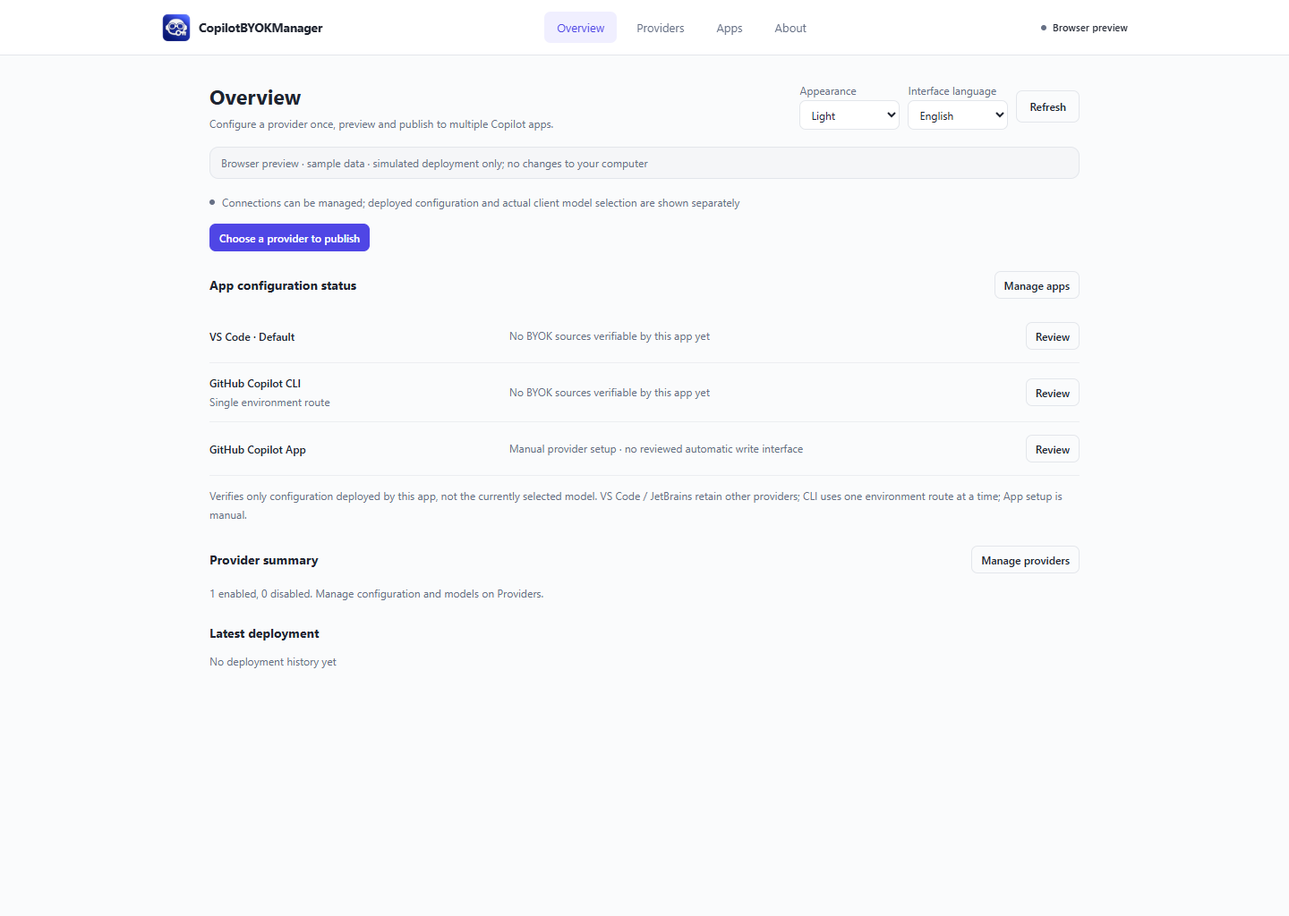
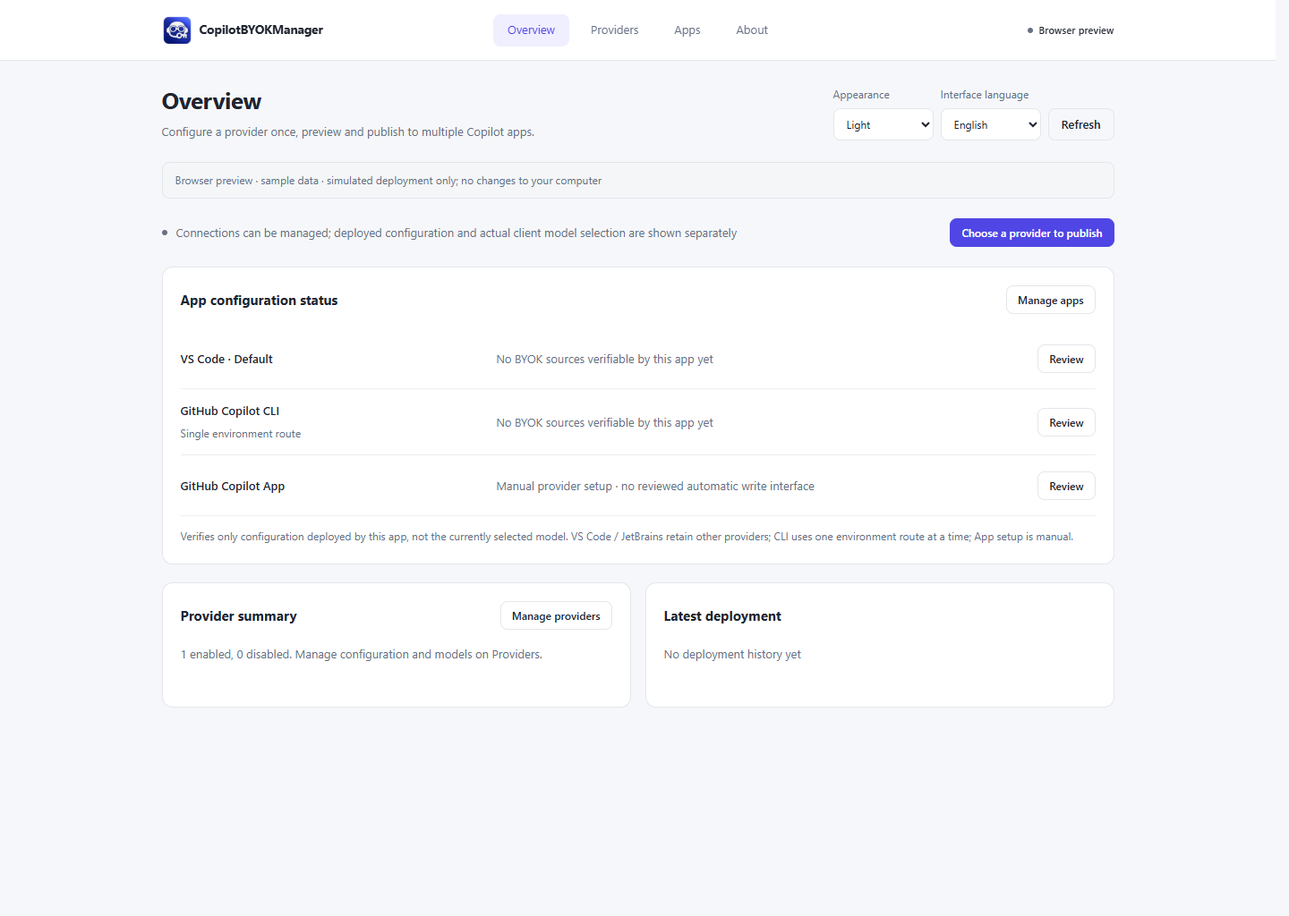
style: align core pages and refresh UI screenshots

diff --git a/apps/desktop/web/manager.css b/apps/desktop/web/manager.css
@@ -1,6 +1,6 @@
 :root {
   color-scheme: light;
-  --bg: #fafbfc;
+  --bg: #f6f7fa;
   --panel: #fff;
   --panel-2: #f5f6f8;
   --panel-3: #eef0f5;
@@ -23,7 +23,12 @@
   --warning-bg: #fff3de;
   --preview-border: #c4bfff;
   --backdrop: #21293d40;
+  --shell-width: 1120px;
+  --page-gutter: 28px;
+  --control-height: 36px;
   font-family: "Segoe UI", "Microsoft YaHei", system-ui, sans-serif;
+  font-size: 13px;
+  line-height: 1.6;
 }
 html[data-theme="dark"] {
   color-scheme: dark;
@@ -51,23 +56,39 @@ html[data-theme="dark"] {
   --backdrop: #00000099;
   --shadow: 0 12px 38px #00000066;
 }
-.core-about { padding: 20px; border: 1px solid var(--border); border-radius: 10px; background: var(--panel); }
-.core-about .appearance-picker { max-width: 220px; margin: 12px 0; }
-.core-window-settings { display: flex; flex-wrap: wrap; gap: 0 20px; }
-.core-window-settings .appearance-picker { flex: 1 1 200px; }
+.core-about { padding: 24px; border: 1px solid var(--border); border-radius: 12px; background: var(--panel); }
+.core-about-grid { display: grid; grid-template-columns: repeat(2, minmax(0, 1fr)); gap: 16px; }
+.core-about-grid > .core-about { min-width: 0; margin: 0; }
+.core-about-intro, .core-about-storage { grid-column: 1 / -1; }
+.core-about-intro { display: flex; align-items: center; gap: 20px; }
+.core-about-intro > img { width: 64px; height: 64px; flex: 0 0 64px; }
+.core-about.core-about-intro h2 { font-size: 21px; margin-bottom: 4px; }
+.core-about-intro .manager-meta { margin-bottom: 4px; }
+.core-about .appearance-picker { min-width: 0; margin: 0; }
+.core-about .appearance-picker select { width: 100%; }
+.core-window-settings { display: grid; grid-template-columns: repeat(2, minmax(0, 1fr)); gap: 16px; margin: 20px 0 16px; }
+.core-window-settings .appearance-picker:only-child { grid-column: 1 / -1; max-width: 240px; }
+.core-about p:last-child { margin-bottom: 0; }
+.core-about > .button + .manager-meta { margin-top: 12px; }
+.core-about-storage[open] > summary { margin-bottom: 16px; }
 .core-history, .app-details { scroll-margin-top: 90px; }
 .core-history > summary, .core-about > summary { font-size: 13px; font-weight: 600; }
 .core-recovery h2 { margin: 0 0 8px; font-size: 14px; }
 .core-recovery p { overflow-wrap: anywhere; }
 .client-grid { display: grid; grid-template-columns: repeat(2, minmax(0, 1fr)); gap: 16px; margin-bottom: 24px; }
-.app-provider-field { display: grid; gap: 6px; margin: 16px 0 10px; font-size: 12px; color: var(--muted); }
-.app-provider-field select { width: 100%; }
-.app-details { margin-top: 14px; font-size: 12px; color: var(--muted); }
-.app-details .path-line { margin-top: 10px; }
+.app-configuration { display: grid; grid-template-columns: minmax(0, 1fr) auto; gap: 12px; align-items: end; margin-top: auto; padding-top: 20px; }
+.app-provider-field { display: grid; gap: 8px; margin: 0; min-width: 0; font-size: 12px; color: var(--muted); }
+.app-provider-field select { width: 100%; height: var(--control-height); font-size: 13px; }
+.app-configuration > .button.small { min-height: var(--control-height); }
+.app-card-footer { display: flex; align-items: flex-start; gap: 12px; margin-top: 20px; padding-top: 12px; border-top: 1px solid var(--border-soft); }
+.app-details { flex: 1; min-width: 0; margin: 0; font-size: 12px; color: var(--muted); }
+.app-details > summary { min-height: 32px; display: list-item; align-content: center; }
+.app-details .path-line { margin-top: 10px; padding: 8px; white-space: normal; font-size: 11px; }
 html[data-theme="dark"] .status-pill.error, html[data-theme="dark"] .status-pill.failed { color: var(--danger); background: var(--panel-2); border-color: var(--border); }
 html[data-theme="dark"] .status-pill.not-installed, html[data-theme="dark"] .status-pill.read-only { color: var(--warning); background: var(--panel-2); border-color: var(--border); }
 html[data-theme="dark"] .client-icon, html[data-theme="dark"] .badge, html[data-theme="dark"] .install-badge { color: var(--muted); background: var(--panel-2); border-color: var(--border); }
 html, body { min-width: 360px; min-height: 100%; background: var(--bg); }
+html { scrollbar-gutter: stable; }
 button, a, input, select, textarea, summary { outline-offset: 3px; }
 /* Theme changes are immediate; avoid unreadable intermediate color blends. */
 html[data-theme] :is(.nav-item, .button, .manager-switch, input, select, textarea) { transition: none; }
@@ -75,12 +96,12 @@ html[data-theme] :is(.nav-item, .button, .manager-switch, input, select, textare
 ::selection { color: var(--text); background: var(--selection-bg); }
 input, textarea { caret-color: var(--accent); }
 .app-shell { display: block; }
-.sidebar { height: 62px; display: grid; grid-template-columns: auto 1fr auto; align-items: center; gap: 26px; padding: 0 max(20px, calc((100vw - 1080px) / 2)); border-right: 0; border-bottom: 1px solid var(--border); background: var(--sidebar-bg); z-index: 10; }
+.sidebar { height: 68px; display: grid; grid-template-columns: 1fr auto 1fr; align-items: center; gap: 24px; padding: 0 max(var(--page-gutter), calc((100% - var(--shell-width)) / 2 + var(--page-gutter))); border-right: 0; border-bottom: 1px solid var(--border); background: var(--sidebar-bg); z-index: 10; }
 .brand { padding: 0; gap: 8px; white-space: nowrap; }
 .brand strong { font-size: 14px; letter-spacing: -.02em; }
 .brand small, .nav-icon { display: none; }
 #primary-nav { display: flex; align-items: stretch; justify-content: center; gap: 8px; }
-.nav-item { width: auto; justify-content: center; padding: 9px 14px; border: 0; border-radius: 7px; font-size: 13px; white-space: nowrap; }
+.nav-item { width: auto; min-height: 36px; justify-content: center; padding: 7px 16px; border: 0; border-radius: 8px; font-size: 13px; white-space: nowrap; }
 .nav-item.active { color: var(--accent); background: var(--accent-soft); border: 0; }
 .nav-item:hover { background: var(--panel-2); }
 .more-nav { position: relative; }
@@ -88,37 +109,44 @@ input, textarea { caret-color: var(--accent); }
 .more-nav > summary::-webkit-details-marker { display: none; }
 .more-menu { position: absolute; right: 0; top: 45px; min-width: 150px; padding: 6px; border: 1px solid var(--border); border-radius: 9px; background: var(--panel); box-shadow: var(--shadow); }
 .more-menu .nav-item { width: 100%; justify-content: flex-start; }
-.sidebar-footer { margin: 0; padding: 0; border: 0; background: none; gap: 7px; white-space: nowrap; }
+.sidebar-footer { justify-self: end; margin: 0; padding: 0; border: 0; background: none; gap: 7px; white-space: nowrap; }
 .sidebar-footer strong { font-size: 11px; font-weight: 500; }
 .sidebar-footer small { display: none; }
 .runtime-dot, .runtime-dot.online { width: 6px; height: 6px; background: var(--subtle); box-shadow: none; }
-.main-panel { max-width: 1020px; margin: auto; }
-.topbar { align-items: center; padding: 30px 24px 18px; gap: 20px; border-bottom: 0; }
+.main-panel { max-width: var(--shell-width); margin: auto; }
+.topbar { align-items: flex-end; padding: 28px var(--page-gutter) 24px; gap: 24px; border-bottom: 0; }
+.topbar > div:first-child { min-width: 0; }
 .topbar .eyebrow { display: none; }
-h1 { font-size: 23px; font-weight: 650; margin-bottom: 7px; letter-spacing: 0; }
-#page-subtitle { font-size: 12px; }
-.topbar-actions { flex-wrap: wrap; justify-content: flex-end; }
-.language-picker, .appearance-picker { display: grid; gap: 3px; flex-shrink: 0; font-size: 12px; color: var(--muted); }
-.language-picker select, .appearance-picker select { width: auto; min-width: 112px; height: 33px; padding: 4px 8px; color: var(--text); background: var(--panel); border: 1px solid var(--border); border-radius: 7px; font: inherit; font-size: 12px; }
-.content { padding: 0 24px 50px; }
-.button { border-radius: 7px; box-shadow: none; font-size: 12px; font-weight: 500; }
+h1 { font-size: 26px; font-weight: 650; line-height: 1.25; margin-bottom: 8px; letter-spacing: -.02em; }
+#page-subtitle { font-size: 13px; line-height: 1.6; }
+.topbar-actions { flex: 0 0 auto; align-items: flex-end; flex-wrap: nowrap; justify-content: flex-end; gap: 8px; }
+.language-picker, .appearance-picker { display: grid; gap: 6px; flex-shrink: 0; font-size: 12px; color: var(--muted); }
+.language-picker select, .appearance-picker select { width: auto; min-width: 112px; height: var(--control-height); padding: 4px 10px; color: var(--text); background: var(--panel); border: 1px solid var(--border); border-radius: 8px; font: inherit; font-size: 12px; }
+.content { padding: 0 var(--page-gutter) 48px; }
+.button { min-height: var(--control-height); border-radius: 8px; box-shadow: none; font-size: 13px; line-height: 1.4; font-weight: 500; padding: 7px 14px; }
 .button.primary { color: var(--on-accent); border-color: var(--accent); background: var(--accent); box-shadow: none; }
 .button.primary:hover:not(:disabled) { background: var(--accent-hover); border-color: var(--accent-hover); }
 .button:hover:not(:disabled) { transform: none; border-color: #c6ccda; }
-.button.small { font-size: 12px; }
-.preview-banner { border-color: var(--border); background: var(--panel-2); color: var(--muted); padding: 9px 12px; font-size: 12px; margin: 0 0 18px; }
-.manager-health { display: flex; align-items: center; gap: 8px; font-size: 12px; color: var(--muted); margin: 3px 0 24px; }
+.button.small { min-height: 32px; padding: 6px 12px; font-size: 12px; }
+.preview-banner { border: 1px solid var(--border); border-radius: 8px; background: var(--panel-2); color: var(--muted); padding: 10px 14px; font-size: 12px; margin: 0 0 20px; }
+.manager-health { display: flex; align-items: center; gap: 10px; font-size: 13px; color: var(--muted); margin: 0 0 20px; min-height: 36px; }
+.manager-health > .button { margin-left: auto; flex-shrink: 0; }
 .manager-dot { flex: 0 0 6px; height: 6px; border-radius: 50%; background: var(--subtle); }
 .manager-dot.attention { background: var(--warning); }
-.manager-section { margin-bottom: 24px; }
-.manager-section h2 { font-size: 14px; font-weight: 650; letter-spacing: 0; margin: 0 0 12px; }
-.manager-section-head { display: flex; align-items: center; justify-content: space-between; gap: 12px; margin-bottom: 12px; }
+.manager-section { margin-bottom: 20px; }
+.manager-section h2 { font-size: 15px; font-weight: 650; letter-spacing: 0; margin: 0 0 16px; }
+.manager-section-head { display: flex; align-items: center; justify-content: space-between; gap: 16px; min-height: 32px; margin-bottom: 16px; }
 .manager-section-head h2 { margin: 0; }
+.manager-surface { padding: 20px; background: var(--panel); border: 1px solid var(--border); border-radius: 12px; }
+.manager-home-summary { display: grid; grid-template-columns: minmax(0, 1fr) minmax(0, 1fr); gap: 16px; }
+.manager-home-summary > .manager-section { min-width: 0; min-height: 140px; margin: 0; }
+.manager-home-summary h2 { min-height: 32px; align-content: center; }
+.manager-home-summary .manager-meta:last-child { margin-bottom: 0; }
 .manager-pending { padding: 16px 18px; border: 1px solid var(--border); border-radius: 9px; background: var(--panel); }
 .manager-action-row { display: flex; gap: 12px; align-items: center; justify-content: space-between; font-size: 12px; padding: 7px 0; }
 .manager-action-row span { line-height: 1.65; }
 .manager-action-row button { flex-shrink: 0; }
-.manager-client-row { display: grid; grid-template-columns: minmax(170px, .8fr) minmax(0, 1.4fr) auto; gap: 12px; padding: 14px 0; align-items: center; border-bottom: 1px solid var(--border-soft); font-size: 12px; }
+.manager-client-row { display: grid; grid-template-columns: minmax(190px, .8fr) minmax(0, 1.4fr) auto; gap: 16px; min-height: 68px; padding: 14px 0; align-items: center; border-bottom: 1px solid var(--border-soft); font-size: 13px; }
 .manager-client-row strong { font-weight: 550; overflow-wrap: anywhere; }
 .manager-client-row small { display: block; font-size: 12px; color: var(--subtle); margin-top: 5px; }
 .manager-sources { display: flex; flex-wrap: wrap; gap: 7px; min-width: 0; }
@@ -127,15 +155,19 @@ h1 { font-size: 23px; font-weight: 650; margin-bottom: 7px; letter-spacing: 0; }
 .manager-source[data-source-state="unavailable"] { color: var(--muted); border-style: dashed; }
 .manager-boundary { font-size: 12px; color: var(--subtle); line-height: 1.75; margin: 12px 0 0; }
 .manager-connection-grid { display: grid; grid-template-columns: repeat(2, minmax(0, 1fr)); gap: 14px; }
-.manager-connection { background: var(--panel); border: 1px solid var(--border); border-radius: 10px; padding: 18px; min-width: 0; }
+.manager-connection { display: flex; flex-direction: column; background: var(--panel); border: 1px solid var(--border); border-radius: 12px; padding: 20px; min-width: 0; }
 .manager-connection.is-disabled { background: var(--panel-2); }
-.manager-connection header { display: flex; align-items: center; justify-content: space-between; gap: 10px; margin-bottom: 14px; }
-.manager-connection h3 { font-size: 14px; margin: 0 0 6px; font-weight: 600; overflow-wrap: anywhere; }
-.manager-meta { color: var(--muted); font-size: 12px; line-height: 1.75; }
+.manager-connection header { display: flex; align-items: flex-start; justify-content: space-between; gap: 16px; min-height: 48px; margin-bottom: 16px; }
+.manager-connection header > div { min-width: 0; }
+.manager-connection h3 { font-size: 15px; line-height: 1.5; margin: 0 0 4px; font-weight: 600; overflow-wrap: anywhere; }
+.manager-meta { color: var(--muted); font-size: 13px; line-height: 1.7; }
+.manager-connection header .manager-meta { font-size: 12px; }
+.manager-connection > .manager-meta { margin: 0; font-size: 12px; }
 .manager-endpoint { font-size: 12px; color: var(--muted); white-space: nowrap; overflow: hidden; text-overflow: ellipsis; margin: 0 0 7px; }
-.manager-model-chips { min-height: 31px; display: flex; flex-wrap: wrap; gap: 6px; margin: 15px 0; }
+.manager-model-chips { min-height: 31px; display: flex; align-items: flex-start; flex-wrap: wrap; gap: 6px; margin: 16px 0 20px; }
 .manager-model-chips small { color: var(--subtle); font-size: 10px; }
-.manager-card-actions { display: flex; gap: 6px; flex-wrap: wrap; }
+.manager-card-actions { display: flex; gap: 8px; flex-wrap: wrap; margin-top: auto; padding-top: 16px; border-top: 1px solid var(--border-soft); }
+.provider-security-note { margin: 0 0 20px; }
 .manager-remove { margin-left: auto; color: var(--subtle); }
 .manager-probe { color: var(--muted); font-size: 11px; line-height: 1.75; margin: 12px 0 0; }
 .manager-probe:empty { display: none; }
@@ -145,7 +177,7 @@ h1 { font-size: 23px; font-weight: 650; margin-bottom: 7px; letter-spacing: 0; }
 .manager-switch[aria-checked="true"] span { transform: translateX(14px); }
 .manager-switch:disabled { opacity: .5; cursor: not-allowed; }
 .manager-result { font-size: 12px; color: var(--muted); display: flex; align-items: center; justify-content: space-between; gap: 12px; }
-.manager-inline-preview { margin: 18px 0 24px; border: 1px solid var(--preview-border); border-radius: 10px; background: var(--panel); padding: 20px; scroll-margin-top: 90px; }
+.manager-inline-preview { margin: 20px 0; border: 1px solid var(--preview-border); border-radius: 12px; background: var(--panel); padding: 24px; scroll-margin-top: 90px; }
 .manager-inline-preview h2 { font-size: 15px; margin: 0; }
 .manager-targets { display: grid; grid-template-columns: repeat(2, minmax(0, 1fr)); gap: 8px; margin: 16px 0; }
 .manager-target { display: flex; align-items: flex-start; gap: 8px; background: var(--panel-2); border-radius: 6px; padding: 11px; font-size: 12px; }
@@ -153,7 +185,8 @@ h1 { font-size: 23px; font-weight: 650; margin-bottom: 7px; letter-spacing: 0; }
 .manager-target small { display: block; margin-top: 5px; color: var(--muted); font-size: 12px; }
 .manager-operations { display: grid; gap: 10px; }
 .manager-operation { border-top: 1px solid var(--border-soft); padding-top: 14px; font-size: 12px; line-height: 1.7; overflow-wrap: anywhere; }
-.manager-operation h3 { font-size: 13px; margin: 0 0 7px; }
+.manager-operation h3 { display: flex; align-items: center; flex-wrap: wrap; gap: 8px; font-size: 13px; margin: 0 0 12px; }
+.manager-operation h3 .manager-meta { padding: 2px 8px; border: 1px solid var(--border); border-radius: 5px; background: var(--panel-2); font-size: 12px; font-weight: 400; }
 .manager-operation p { color: var(--muted); margin-bottom: 9px; }
 .manager-preview-actions { display: flex; gap: 8px; justify-content: flex-end; border-top: 1px solid var(--border-soft); padding-top: 16px; margin-top: 16px; }
 .manager-route-warning { color: var(--warning) !important; background: var(--warning-bg); padding: 7px; border-radius: 5px; }
@@ -162,7 +195,6 @@ h1 { font-size: 23px; font-weight: 650; margin-bottom: 7px; letter-spacing: 0; }
 .manager-start h2 { font-size: 17px; line-height: 1.5; margin: 0 0 8px; }
 .manager-start p { font-size: 13px; line-height: 1.7; color: var(--muted); margin: 0; max-width: 65ch; }
 .manager-start .button { flex-shrink: 0; }
-.manager-task-actions { margin: -8px 0 22px; }
 .manager-extra-sources { max-width: 100%; }
 .manager-extra-sources > summary { padding: 4px 0; }
 .manager-result-action { margin-top: 10px; }
@@ -174,10 +206,20 @@ h1 { font-size: 23px; font-weight: 650; margin-bottom: 7px; letter-spacing: 0; }
 .manager-result-targets li > span { margin-left: 12px; color: var(--muted); }
 .manager-result-targets p { margin: 8px 0 0; color: var(--muted); font-size: 12px; line-height: 1.7; }
 .install-panel, .account-panel, .github-auth-panel, .card, .client-card, .security-note, .setting-row, .usage-panel { background: var(--panel); border-color: var(--border); box-shadow: none; border-radius: 10px; }
+.client-card { display: flex; flex-direction: column; min-width: 0; min-height: 252px; padding: 20px; border-radius: 12px; }
+.client-card:hover { transform: none; border-color: var(--border); }
+.client-header { align-items: center; justify-content: flex-start; gap: 12px; }
+.client-header h3 { flex: 1; min-width: 0; margin: 0; font-size: 15px; line-height: 1.5; overflow-wrap: anywhere; }
+.client-header .status-pill { flex-shrink: 0; margin-left: auto; font-size: 11px; }
+.client-icon { flex: 0 0 36px; width: 36px; height: 36px; margin: 0; border-radius: 9px; font-size: 14px; }
+.client-card .client-description { min-height: 0; margin: 16px 0 0; font-size: 13px; line-height: 1.7; overflow-wrap: anywhere; }
 .status-pill.available, .status-pill.applied, .badge.secure { color: var(--muted); border-color: var(--border); background: var(--panel-2); }
 .modal-backdrop { background: var(--backdrop); z-index: 30; }
-.modal { color: var(--text); background: var(--panel); border-color: var(--border); border-radius: 12px; box-shadow: var(--shadow); max-height: calc(100vh - 48px); }
-.modal-header, .modal-footer { background: var(--panel); }
+.modal { display: flex; flex-direction: column; overflow: hidden; color: var(--text); background: var(--panel); border-color: var(--border); border-radius: 14px; box-shadow: var(--shadow); max-height: calc(100vh - 48px); }
+.modal.wide { width: min(800px, 94vw); }
+.modal-header, .modal-footer { flex: 0 0 auto; padding: 20px 24px; background: var(--panel); }
+.modal-header h2 { font-size: 17px; line-height: 1.5; }
+.modal-body { min-height: 0; overflow: auto; padding: 24px; scrollbar-gutter: stable; }
 .modal-footer { flex-wrap: wrap; }
 .modal-discard { flex: 1 0 100%; padding: 12px; background: var(--panel-2); border-radius: 8px; font-size: 13px; }
 .modal-discard p { margin: 0 0 10px; line-height: 1.7; }
@@ -186,6 +228,16 @@ h1 { font-size: 23px; font-weight: 650; margin-bottom: 7px; letter-spacing: 0; }
 .form-field label, .field-label { font-size: 13px; }
 .form-field small { font-size: 12px; line-height: 1.7; }
 .form-field textarea { font-size: 13px; }
+.form-field { min-width: 0; align-content: start; gap: 8px; }
+.form-grid { gap: 20px 16px; }
+.form-field input, .form-field select { font-size: 13px; }
+.form-field input:not([type="checkbox"]), .form-field select { height: 40px; }
+.form-field input:focus-visible, .form-field select:focus-visible, .form-field textarea:focus-visible { outline: 0; border-color: var(--accent); box-shadow: 0 0 0 3px var(--accent-soft); }
+.model-discovery { background: var(--panel-2); padding: 16px; }
+.model-discovery-actions { gap: 16px; }
+.model-discovery-actions strong { font-size: 13px; }
+.connection-advanced { grid-column: 1 / -1; }
+.connection-advanced > summary { font-size: 13px; }
 .form-grid > #connection-error { margin: 0; }
 input[aria-invalid="true"], textarea[aria-invalid="true"], select[aria-invalid="true"] { border-color: var(--danger); }
 .usage-table { background: var(--panel); font-variant-numeric: tabular-nums; }
@@ -241,7 +293,21 @@ code, .path-line, .usage-code { font-family: "Cascadia Code", "Consolas", monosp
 .account-plan-security, .account-plan-target, .account-confirmation, .account-result-summary { font-size: 12px; }
 .github-auth-permission, .github-auth-scopes strong, .github-auth-meta,
 .account-plan-operation strong, .account-result-row strong { font-size: 12px; }
-.card-grid { display: grid; grid-template-columns: repeat(2, minmax(0, 1fr)); }
+.card-grid { display: grid; grid-template-columns: repeat(2, minmax(0, 1fr)); gap: 16px; }
+summary { cursor: pointer; }
+.content > details.manager-section { padding: 16px 20px; border: 1px solid var(--border); border-radius: 10px; background: var(--panel); }
+.content > details.manager-section > summary { font-size: 13px; font-weight: 600; }
+.content > details.manager-section[open] > summary { margin-bottom: 16px; }
+@media (max-width: 1040px) {
+  .sidebar { grid-template-columns: auto 1fr auto; gap: 16px; }
+  .nav-item { padding-inline: 12px; }
+  .topbar { gap: 16px; }
+  .topbar-actions { gap: 6px; }
+  .topbar-actions > .button { padding-inline: 12px; }
+  .client-header { flex-wrap: wrap; }
+  .client-header .status-pill { margin-left: 48px; }
+  .client-header h3 { flex-basis: calc(100% - 48px); }
+}
 @media (max-width: 900px) {
   .sidebar { grid-template-columns: auto 1fr; gap: 8px; padding: 0 16px; }
   .sidebar-footer { display: none; }
@@ -257,7 +323,15 @@ code, .path-line, .usage-code { font-family: "Cascadia Code", "Consolas", monosp
   .main-panel { width: 100%; }
   .topbar, .content { padding-left: 16px; padding-right: 16px; }
   .topbar-actions { flex-wrap: wrap; justify-content: flex-start; gap: 5px; }
-  .manager-connection-grid, .card-grid, .manager-targets { grid-template-columns: 1fr; }
+  .manager-connection-grid, .card-grid, .manager-targets, .manager-home-summary, .core-about-grid { grid-template-columns: 1fr; }
+  .manager-health { flex-wrap: wrap; }
+  .manager-health > span:nth-child(2) { flex: 1; }
+  .manager-health > .button { margin-left: 16px; }
+  .core-window-settings { grid-template-columns: 1fr; }
+  .core-about-intro { align-items: flex-start; }
+  .core-about-intro > img { width: 44px; height: 44px; flex-basis: 44px; }
+  .app-configuration { grid-template-columns: 1fr; }
+  .app-configuration > .button { justify-self: start; }
   .manager-client-row { grid-template-columns: minmax(0, 1fr) auto; }
   .manager-client-row .manager-sources { grid-row: 2; grid-column: 1 / -1; }
   .manager-action-row { align-items: flex-start; }

diff --git a/apps/desktop/web/manager-ui.js b/apps/desktop/web/manager-ui.js
@@ -102,13 +102,12 @@
     const actions = pending(snapshot, data, native);
     const connections = snapshot.connections.filter(connection => connection.enabled !== false);
     return `${!native ? `<div class="preview-banner">${tr("浏览器试用 · 示例数据 · 发布仅为模拟，不修改电脑")}</div>` : ""}
-      <div class="manager-health"><span class="manager-dot ${actions.length ? "attention" : ""}"></span><span>${actions.length ? tr("有事项需要核对") : tr("连接可管理，发布配置与客户端实际选用分开显示")}</span></div>
+      <div class="manager-health"><span class="manager-dot ${actions.length ? "attention" : ""}"></span><span>${actions.length ? tr("有事项需要核对") : tr("连接可管理，发布配置与客户端实际选用分开显示")}</span>${!frozen(snapshot) && connections.length ? `<button class="button primary small" data-action="jump-connections">${tr("选择连接并发布")}</button>` : ""}</div>
       ${!frozen(snapshot) && !snapshot.connections.length ? `<section class="manager-start"><div><h2>${tr("配置一个供应商，用于多个 Copilot 客户端")}</h2><p>${tr("先添加端点、密钥与模型，再选择你要使用的客户端并预览发布。")}</p></div><button class="button primary" data-action="add-connection">${tr("添加第一个连接")}</button></section>` : ""}
-      ${!frozen(snapshot) && connections.length ? `<div class="manager-task-actions"><button class="button primary small" data-action="jump-connections">${tr("选择连接并发布")}</button></div>` : ""}
       ${actions.length ? `<section class="manager-section manager-pending"><h2>${tr("待处理")}</h2>${actions.map(row => `<div class="manager-action-row"><span>${escape(row.text)}</span><button class="button ghost small" data-action="${row.action}" ${row.route ? `data-route="${row.route}"` : ""} ${row.disabled ? "disabled" : ""}>${row.label}</button></div>`).join("")}</section>` : ""}
-      <section class="manager-section"><div class="manager-section-head"><h2>${tr("客户端模型来源")}</h2><button class="button ghost small" data-action="route" data-route="clients">${tr("客户端管理")}</button></div>${sourceRows(snapshot)}<p class="manager-boundary">${tr("仅核验本软件发布的配置，不读取当前所选模型。VS Code / JetBrains 保留其他供应商；CLI 环境路由一次一个；App 手动配置。")}</p></section>
-      <section class="manager-section" id="home-connections"><div class="manager-section-head"><h2>${tr("供应商概况")}</h2><button class="button ghost small" data-action="route" data-route="connections">${tr("管理供应商")}</button></div><p class="manager-meta">${tr("{0} 个已启用，{1} 个已停用。配置与模型在供应商页管理。", connections.length, snapshot.connections.length - connections.length)}</p></section>
-      <section class="manager-section"><h2 id="publication-result-title">${tr("最近一次发布")}</h2>${lastResult(snapshot, native)}</section>`;
+      <section class="manager-section manager-surface"><div class="manager-section-head"><h2>${tr("客户端模型来源")}</h2><button class="button ghost small" data-action="route" data-route="clients">${tr("客户端管理")}</button></div>${sourceRows(snapshot)}<p class="manager-boundary">${tr("仅核验本软件发布的配置，不读取当前所选模型。VS Code / JetBrains 保留其他供应商；CLI 环境路由一次一个；App 手动配置。")}</p></section>
+      <div class="manager-home-summary"><section class="manager-section manager-surface" id="home-connections"><div class="manager-section-head"><h2>${tr("供应商概况")}</h2><button class="button ghost small" data-action="route" data-route="connections">${tr("管理供应商")}</button></div><p class="manager-meta">${tr("{0} 个已启用，{1} 个已停用。配置与模型在供应商页管理。", connections.length, snapshot.connections.length - connections.length)}</p></section>
+      <section class="manager-section manager-surface"><h2 id="publication-result-title">${tr("最近一次发布")}</h2>${lastResult(snapshot, native)}</section></div>`;
   }
 
   return { escape, policy, connectionCard, sourceRows, pending, lastResult, publicationSteps, renderHome };

diff --git a/apps/desktop/web/app.js b/apps/desktop/web/app.js
@@ -516,7 +516,7 @@
 
   function renderConnections() {
     return `
-      <p class="manager-boundary" style="margin-bottom:18px">${tr("密钥保存在系统凭据库，不回读到界面。测试连接仅查询模型目录，不验证推理能力。")}</p>
+      <p class="manager-boundary provider-security-note">${tr("密钥保存在系统凭据库，不回读到界面。测试连接仅查询模型目录，不验证推理能力。")}</p>
       ${snapshot.connections.length ? `<div class="card-grid">${snapshot.connections.map(connectionCard).join("")}</div>` : emptyConnections()}
       <section class="manager-section manager-publication"><h2 id="publication-result-title">${tr("最近配置操作")}</h2>${window.CopilotBYOKManagerManager.lastResult(snapshot, isDesktop)}</section>
       ${window.CopilotBYOKManagerCore.history(snapshot)}
@@ -602,13 +602,14 @@
       <article class="client-card" data-client-id="${escapeHtml(client.id)}" tabindex="-1">
         <div class="client-header">
           <div class="client-icon">${escapeHtml(clientIcon(client.kind))}</div>
+          <h3>${escapeHtml(client.name)}</h3>
           <span class="status-pill ${escapeHtml(client.status)}">${escapeHtml(statusLabel(client.status))}</span>
         </div>
-        <h3>${escapeHtml(client.name)}</h3>
-        <p>${escapeHtml(client.detail)}</p>
-        ${client.detected ? `<label class="app-provider-field"><span>${tr("使用供应商")}</span><select class="app-provider-select" aria-label="${tr("{0} 使用的供应商", escapeHtml(client.name))}" ${!providers.length || snapshot.stateRecovery || snapshot.deploymentRecovery ? "disabled" : ""}><option value="" ${!providerId ? "selected" : ""}>${providers.length ? tr("请选择供应商") : tr("请先添加供应商")}</option>${providers.map(connection => `<option value="${escapeHtml(connection.id)}" ${connection.id === providerId ? "selected" : ""}>${escapeHtml(connection.name)}</option>`).join("")}</select></label><button class="button primary small" data-action="deploy-client" data-client-id="${escapeHtml(client.id)}" ${!providerId || snapshot.stateRecovery || snapshot.deploymentRecovery || (!client.supportsWrite && client.kind !== "github-copilot-app") ? "disabled" : ""}>${client.supportsWrite ? tr("预览配置") : tr("手动配置")}</button>` : ""}
-        <details class="app-details"><summary>${tr("应用信息")}</summary><div class="path-line" title="${escapeHtml(client.path ?? client.diagnostic ?? "")}">${escapeHtml(client.path ?? client.diagnostic ?? tr("未提供本地路径"))}</div></details>
+        <p class="client-description">${escapeHtml(client.detail)}</p>
+        <div class="app-configuration">${client.detected ? `<label class="app-provider-field"><span>${tr("使用供应商")}</span><select class="app-provider-select" aria-label="${tr("{0} 使用的供应商", escapeHtml(client.name))}" ${!providers.length || snapshot.stateRecovery || snapshot.deploymentRecovery ? "disabled" : ""}><option value="" ${!providerId ? "selected" : ""}>${providers.length ? tr("请选择供应商") : tr("请先添加供应商")}</option>${providers.map(connection => `<option value="${escapeHtml(connection.id)}" ${connection.id === providerId ? "selected" : ""}>${escapeHtml(connection.name)}</option>`).join("")}</select></label><button class="button primary small" data-action="deploy-client" data-client-id="${escapeHtml(client.id)}" ${!providerId || snapshot.stateRecovery || snapshot.deploymentRecovery || (!client.supportsWrite && client.kind !== "github-copilot-app") ? "disabled" : ""}>${client.supportsWrite ? tr("预览配置") : tr("手动配置")}</button>` : ""}</div>
+        <div class="app-card-footer"><details class="app-details"><summary>${tr("应用信息")}</summary><div class="path-line" title="${escapeHtml(client.path ?? client.diagnostic ?? "")}">${escapeHtml(client.path ?? client.diagnostic ?? tr("未提供本地路径"))}</div></details>
         ${client.kind === "jetbrains-copilot" && !client.supportsWrite ? `<button class="button ghost small" data-action="jetbrains-guide" data-id="${escapeHtml(client.id)}">${tr("配置指引")}</button>` : ""}
+        </div>
       </article>`;
   }
 

diff --git a/apps/desktop/web/core-ui.js b/apps/desktop/web/core-ui.js
@@ -42,10 +42,10 @@
     const behavior = windowBehaviorDescription(data, native);
     const closeAction = data.windowBehavior?.closeAction === "exit" ? "exit" : "tray";
     const closeControl = native ? '<label class="appearance-picker"><span>' + tr("关闭窗口时") + '</span><select data-close-action aria-label="' + tr("关闭窗口时") + '" ' + (data.windowBehavior?.preferencesAvailable === true && data.windowBehavior?.trayAvailable === true ? '' : 'disabled') + '><option value="tray" ' + (closeAction === "tray" ? 'selected' : '') + '>' + tr("收起到系统托盘") + '</option><option value="exit" ' + (closeAction === "exit" ? 'selected' : '') + '>' + tr("退出程序") + '</option></select></label>' : '';
-    return '<section class="manager-section core-about"><h2>CopilotBYOKManager</h2><p class="manager-meta">' + tr("一次配置供应商，用于多个 Copilot 应用。") + '</p><p class="manager-meta">' + tr("核心配置版 · 预发布 · 0.1.0") + '</p><p class="manager-boundary">' + tr("独立的 Copilot 配置管理工具，处于预发布阶段，与 GitHub 无隶属关系。") + '</p></section>' +
+    return '<div class="core-about-grid"><section class="manager-section core-about core-about-intro"><img src="assets/app-icon.png" alt="" width="64" height="64" /><div><h2>CopilotBYOKManager</h2><p class="manager-meta">' + tr("一次配置供应商，用于多个 Copilot 应用。") + '</p><p class="manager-meta">' + tr("核心配置版 · 预发布 · 0.1.0") + '</p><p class="manager-boundary">' + tr("独立的 Copilot 配置管理工具，处于预发布阶段，与 GitHub 无隶属关系。") + '</p></div></section>' +
       '<section class="manager-section core-about"><h2>' + tr("界面与窗口") + '</h2><div class="core-window-settings"><label class="appearance-picker"><span>' + tr("外观") + '</span><select data-appearance-select aria-label="' + tr("外观") + '"><option value="system">' + tr("跟随系统") + '</option><option value="light">' + tr("浅色") + '</option><option value="dark">' + tr("深色") + '</option></select></label>' + closeControl + '</div><p class="manager-meta" data-window-explanation>' + behavior + '</p></section>' +
       '<section class="manager-section core-about"><h2>' + tr("帮助与反馈") + '</h2><nav class="manager-help-links" aria-label="' + tr("帮助与反馈") + '">' + [["manual", tr("英文使用手册")], ["manual-zh", tr("中文使用手册")], ["issues", tr("反馈问题")]].map(([key, label]) => '<a data-help-link="' + key + '" href="' + escape(urls[key]) + '" target="_blank" rel="noopener noreferrer">' + label + '</a>').join('') + '</nav><button class="button ghost small" data-action="view-planned-features">' + tr("未推出功能记录") + '</button><p class="manager-meta">' + tr("用量、账单与共享资源暂未开放，已有数据保留。规划记录不承诺上线日期。") + '</p><p class="manager-boundary">' + tr("反馈前请删除密钥、账号认证与对话内容。") + '</p></section>' +
-      '<details class="manager-section core-about"><summary>' + tr("本地存储与安全") + '</summary><p class="manager-meta">' + tr("配置保存在本地，登录凭据留在各官方客户端。") + '</p><p class="manager-meta">' + tr("状态文件") + ': ' + escape(snapshot.statePath) + '</p><p class="manager-meta">' + tr("状态版本") + ': v' + escape(snapshot.version) + '</p><p class="manager-meta">' + tr("状态恢复") + ': ' + (snapshot.stateRecovery ? tr("只读恢复") : tr("正常")) + '</p></details>';
+      '<details class="manager-section core-about core-about-storage"><summary>' + tr("本地存储与安全") + '</summary><p class="manager-meta">' + tr("配置保存在本地，登录凭据留在各官方客户端。") + '</p><p class="manager-meta">' + tr("状态文件") + ': ' + escape(snapshot.statePath) + '</p><p class="manager-meta">' + tr("状态版本") + ': v' + escape(snapshot.version) + '</p><p class="manager-meta">' + tr("状态恢复") + ': ' + (snapshot.stateRecovery ? tr("只读恢复") : tr("正常")) + '</p></details></div>';
   }
   function planned() {
     const rows = [

diff --git a/docs/implementation-status.md b/docs/implementation-status.md
@@ -1,6 +1,6 @@
 # CopilotBYOKManager implementation status
 
-Updated 2026-10-15 for the maintainer-approved v0.1 four-page release scope, icon refresh and unsigned Mac preview. Initial release engineering started at `83a82db3555eb0defa278bd6e042b7c55a76088f`; current package source and evidence are recorded below. This is an implementation/evidence summary, not complete-MVP or release acceptance. The [specification §21](mvp-implementation-spec.md#21-final-acceptance) and [feature availability](feature-availability.md) separate core release gates from the retained extended milestone. The product has not had a public release.
+Updated 2026-10-16 for the four-page layout polish and Windows console-free release fix, on top of the maintainer-approved v0.1 scope, icon refresh and unsigned Mac preview. Initial release engineering started at `83a82db3555eb0defa278bd6e042b7c55a76088f`; current package source and evidence are recorded below. This is an implementation/evidence summary, not complete-MVP or release acceptance. The [specification §21](mvp-implementation-spec.md#21-final-acceptance) and [feature availability](feature-availability.md) separate core release gates from the retained extended milestone. The product has not had a public release.
 
 ## Current implementation
 
@@ -32,10 +32,30 @@ Technical detail: [architecture](architecture.md), [hardening](hardening-handoff
 - Publication: pending apply blocks navigation/refresh/dismissal, and failures retain guidance with a consumed preview. Closing an idle preview restores its opener; completion focuses persistent per-target results. VS Code/JetBrains model selection, CLI new-session guidance, and the exact Connection's App manual guide remain distinct. Disk publication never claims login, selection or successful provider execution.
 - Appearance/help: Light/Dark/System, early saved preference and live system following only in System mode. Changes are CSS-only, preserving drafts and previews without IPC. About includes manual/feedback links, an offline planned-feature record and local storage/recovery details.
 - Windows window lifetime: default close-to-tray with a saved Tray/Exit choice on About; left-click restore, localized right-click Open main window / Exit menu, and repeat-launch wakeup. Only a readable Tray preference, registered tray and successful hide retain background execution; other main close paths use normal Tauri exit. Ordinary minimize uses the taskbar. Preference damage keeps the original file and exits; unknown observations remain unknown. Unrestricted menu/tray permissions are excluded from the WebView.
+- Layout: shared header/content gutters and equal-height toolbar controls; bottom-aligned provider actions; app identity, status, provider selector/action and information footer use consistent rows. Overview has a grouped app-status panel and paired summary/result panels; About groups identity, preferences and help. Dialog headers/footers stay visible while the form body scrolls. The four routes, explicit selection and preview/confirm semantics are unchanged.
 
 ## Validation evidence
 
 Evidence must stay attached to the source and validation layer that produced it. Tests use temporary data and fake external services. Private runtime reports remain outside Git; the reviewed, synthetic README screenshots are checked in with [provenance](images/README.md) and are not runtime acceptance evidence.
+
+### Layout polish and console-free Windows launch — 2026-10-16
+
+Validation baseline: `0255a7d09e08fb8909907724645f2653a6959813` plus the then-local changes described here. This evidence was collected before the maintainer's subsequent commit/push request; it does not claim tag/publication or fresh hosted-workflow acceptance.
+
+The Windows preview's unexpected console was confirmed in its PE header (Console subsystem 3). The release entry point now selects Windows GUI subsystem 2; debug builds retain their console. Packaging and the Windows CI build validate the compiled x64/PE32+ GUI header, rejecting console, malformed and truncated payloads. Three new regression tests cover the header and build-path contract. Native tray behavior, stores, credentials, migrations and deployment logic are unchanged.
+
+Before the later layout edits, a local dirty-source Windows dry-run produced NSIS and standalone ZIP artifacts. The extracted payload passed the GUI-header check, rejected test-only startup flags and opened a responding `CopilotBYOKManager` main window without the old console. That package is a **console-fix preview, not a package of the later layout changes**. No installer was executed; tray close/restore/Quit, clean-user setup, Mac runtime and real client requests were not accepted by this launch.
+
+The layout changes use the real current frontend with fresh isolated browser contexts and fictional key-free providers. `scripts/check-layout.cjs` preserves before/after captures at 1180 × 860 and checks 48 combinations of four pages, two languages, two explicit themes and 960/1180/1440px widths (960 × 640 is the smallest window). Geometry checks cover header/content alignment, toolbar heights, card action rows and overflow; additional scenarios cover long names, modal-body scrolling, draft retention, fake-data save, publication preview and synthetic native-only window preferences. These browser checks are not native IPC or real-client acceptance. No real provider, account, IDE or key was read or modified.
+
+| Check | Result and limit |
+| --- | --- |
+| Source checks | `npm run check` passed: 10 version sources, 22 release tests, 69 web tests, 998 bilingual messages / 973 explicit keys, Rust fmt, 275 library + 6 integration tests, strict Clippy. The existing local link-privilege limitation is unchanged |
+| Existing browser regression | All 18 core scenario groups passed, including contrast, system theme, draft/focus/save guards, preview lifecycle, recovery and hidden-feature boundaries; native calls remain fixtures |
+| Layout regression | 48 page/locale/theme/viewport checks plus editor/long-name/preview/synthetic-window checks passed; before/after screenshots retained locally under ignored `target/ui-polish-20261016/` |
+| README images | Six current-browser screenshots recaptured and visually inspected; icon/header checks passed for 18 locale/theme/width combinations |
+
+Release gates remain separate: current native-isolated acceptance, clean Windows install/uninstall and real client/provider requests are still required. Rider remains deferred. The earlier hosted Mac artifact is not a build or acceptance result for these local changes.
 
 ### Icon refresh and unsigned Mac preview — 2026-10-15
 

diff --git a/docs/images/README.md b/docs/images/README.md
@@ -1,6 +1,6 @@
 # Current-interface screenshot provenance
 
-Captured 2026-10-15 from `apps/desktop/web/`, based on `fbd8f532f988533d306c9842d21f74393516b3ea` plus the maintainer-requested new icon/header in this candidate. These are **browser fallback previews with simulated data**, not native client or provider-request acceptance.
+Captured 2026-10-16 from `apps/desktop/web/`, based on `0255a7d09e08fb8909907724645f2653a6959813` plus the maintainer-requested four-page layout polish in this candidate. These are **browser fallback previews with simulated data**, not native client or provider-request acceptance.
 
 | Files | View |
 | --- | --- |
@@ -19,3 +19,5 @@ node scripts/capture-readme.cjs
 ```
 
 The script serves only the current frontend on an ephemeral localhost port, uses fresh isolated browser contexts, blocks non-local requests and records three views in each language. It also checks the locally packaged icon and header bounds in 18 combinations: English/Chinese, Light/Dark/System and 960/1180/1440px widths. It does not install a browser or access a normal browser profile. Inspect all six images for layout/privacy after changes. Keep the preview disclosure in README; replace them with native screenshots only after separately authorized, sanitized native acceptance.
+
+For four-page alignment and before/after captures, run `node scripts/check-layout.cjs` with the same browser/module settings. `COPILOT_BYOK_MANAGER_CAPTURE_DIR` selects an output directory (default: ignored `target/layout-review`). Use `--capture-only` **before** changing the UI to preserve a baseline; this skips assertions and is not a test pass. The normal run checks both languages and themes at 960 × 640, 1180 × 860 and 1440 × 860, including long fictional names, different description/model counts, editor scrolling and fake-data save. Its 20 images include all four pages plus the editor and publication preview. It never applies publication or uses a native bridge. Keep comparison captures out of the public README unless explicitly selected and reviewed.

diff --git a/docs/local-validation-plan.md b/docs/local-validation-plan.md
@@ -11,6 +11,7 @@
 ## v0.1 当前核心验收入口
 
 - 源码：`npm ci`、`npm run check:version`、`npm run test:release`、`npm run check` 和差异检查；锁文件必须使用。Release 在同一固定 SHA 上独立重复检查。
+- 界面对齐：安装好的 Playwright/Chromium 路径按下文环境变量指定后，运行 `node scripts/check-layout.cjs`。覆盖四页、中英文、明暗主题及 960/1180/1440px 宽度，并检查长名称、不同长度卡片、弹窗滚动和草稿保存。截图目录由 `COPILOT_BYOK_MANAGER_CAPTURE_DIR` 指定；改动前可用 `--capture-only` 保留基线，但该模式不执行对齐断言。只用隔离假数据，不代表原生或客户端验收。
 - 包：新发行入口为 [package-windows.ps1](../scripts/package-windows.ps1)（current-user NSIS + 免安装 ZIP）和 [package-macos.mjs](../scripts/package-macos.mjs)（Universal DMG）；命令及校验和装配见[发行工程（英文）](release-engineering.md)。旧 `package-local.ps1` / PrepareLive 是隔离验收准备入口，不是公开发行附件生成器。
 - Windows：以最终 Draft 安装包和哈希，在干净用户验收 WebView2、无开发工具安装、开始菜单、卸载项、重开、托盘/退出及客户端配置不受卸载影响。未签名须明确披露，不以“可信发布者”作为本版硬门槛。
 - Mac：本 Windows 环境不能验证构建、公证或桌面行为。由 GitHub macOS runner 及真实 Intel/Apple Silicon 分别完成签名、DMG 安装、Finder 启动、Keychain CRUD、CLI 检测、模型发布/请求、关闭窗口和 Cmd+Q，详见[Apple 与真机清单（英文）](release-secrets.md)。
